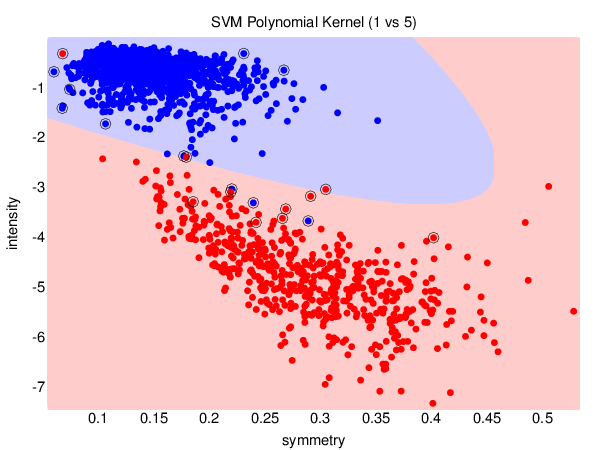
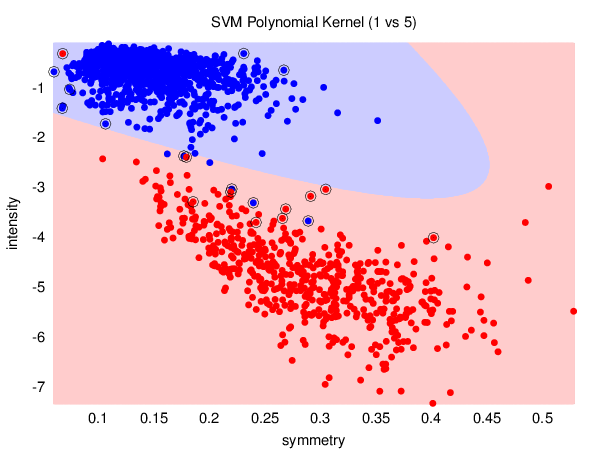
Improved precision of separating hyperplane.

diff --git a/week-08/src/common/plotboundary.m b/week-08/src/common/plotboundary.m
@@ -2,8 +2,8 @@
 function plotboundary (model, X)
   l = 0.1;
 
-  xplot = linspace(min(X(:,1))-l, max(X(:,1))+l, 500)';
-  yplot = linspace(min(X(:,2))-l, max(X(:,2))+l, 500)';
+  xplot = linspace(min(X(:,1))-l, max(X(:,1))+l, 1000)';
+  yplot = linspace(min(X(:,2))-l, max(X(:,2))+l, 1000)';
 
   axis ([min(X(:,1)) max(X(:,1)) min(X(:,2)) max(X(:,2))]);
 
@@ -16,8 +16,8 @@ function plotboundary (model, X)
   [predicted_label accuracy decision_values] = svmpredict (zeros (length (dd), 1), dd, model, '-q');
 
   neg = find (predicted_label == -1);
-  plot (dd(neg,1), dd(neg,2), 's', 'color', negcolor, 'MarkerEdgeColor', negcolor, 'MarkerFaceColor', negcolor);
+  plot (dd(neg,1), dd(neg,2), 's', 'color', negcolor, 'MarkerSize', 1, 'MarkerEdgeColor', negcolor, 'MarkerFaceColor', negcolor);
 
   pos = find(predicted_label == 1);
-  plot(dd(pos,1), dd(pos,2), 's', 'color', poscolor, 'MarkerEdgeColor', poscolor, 'MarkerFaceColor', poscolor);
+  plot(dd(pos,1), dd(pos,2), 's', 'color', poscolor, 'MarkerSize', 1, 'MarkerEdgeColor', poscolor, 'MarkerFaceColor', poscolor);
 end
